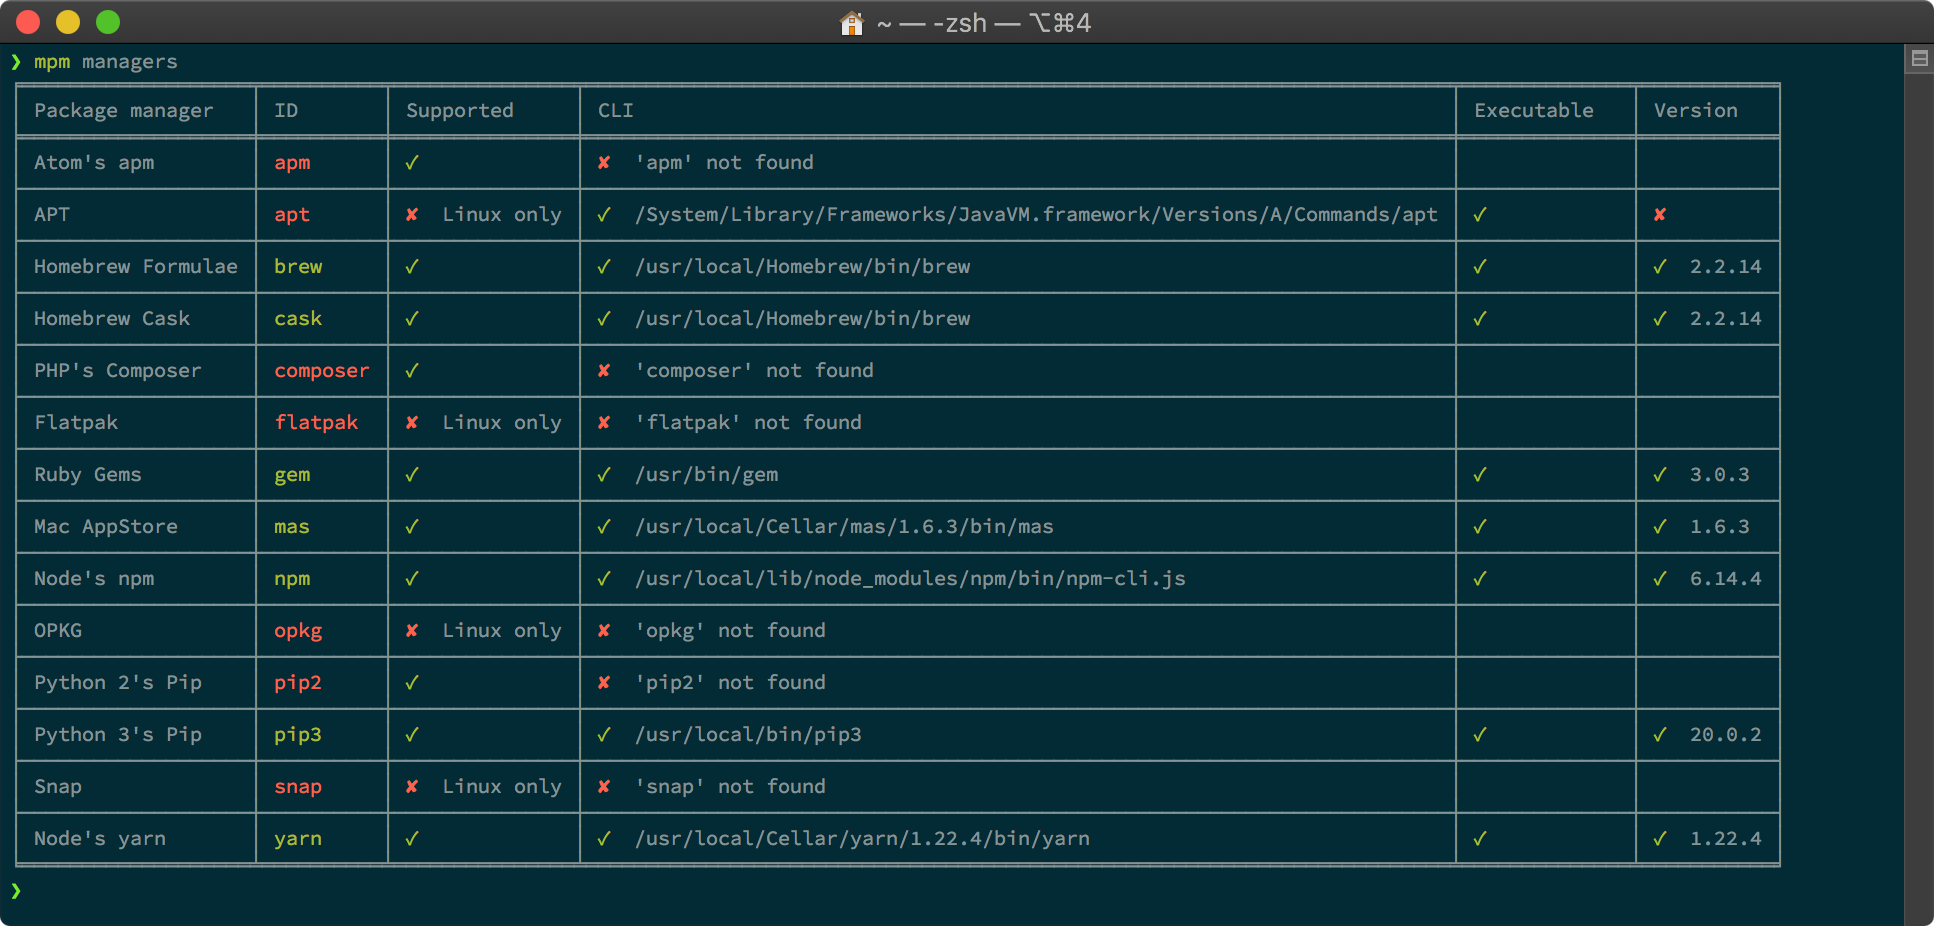
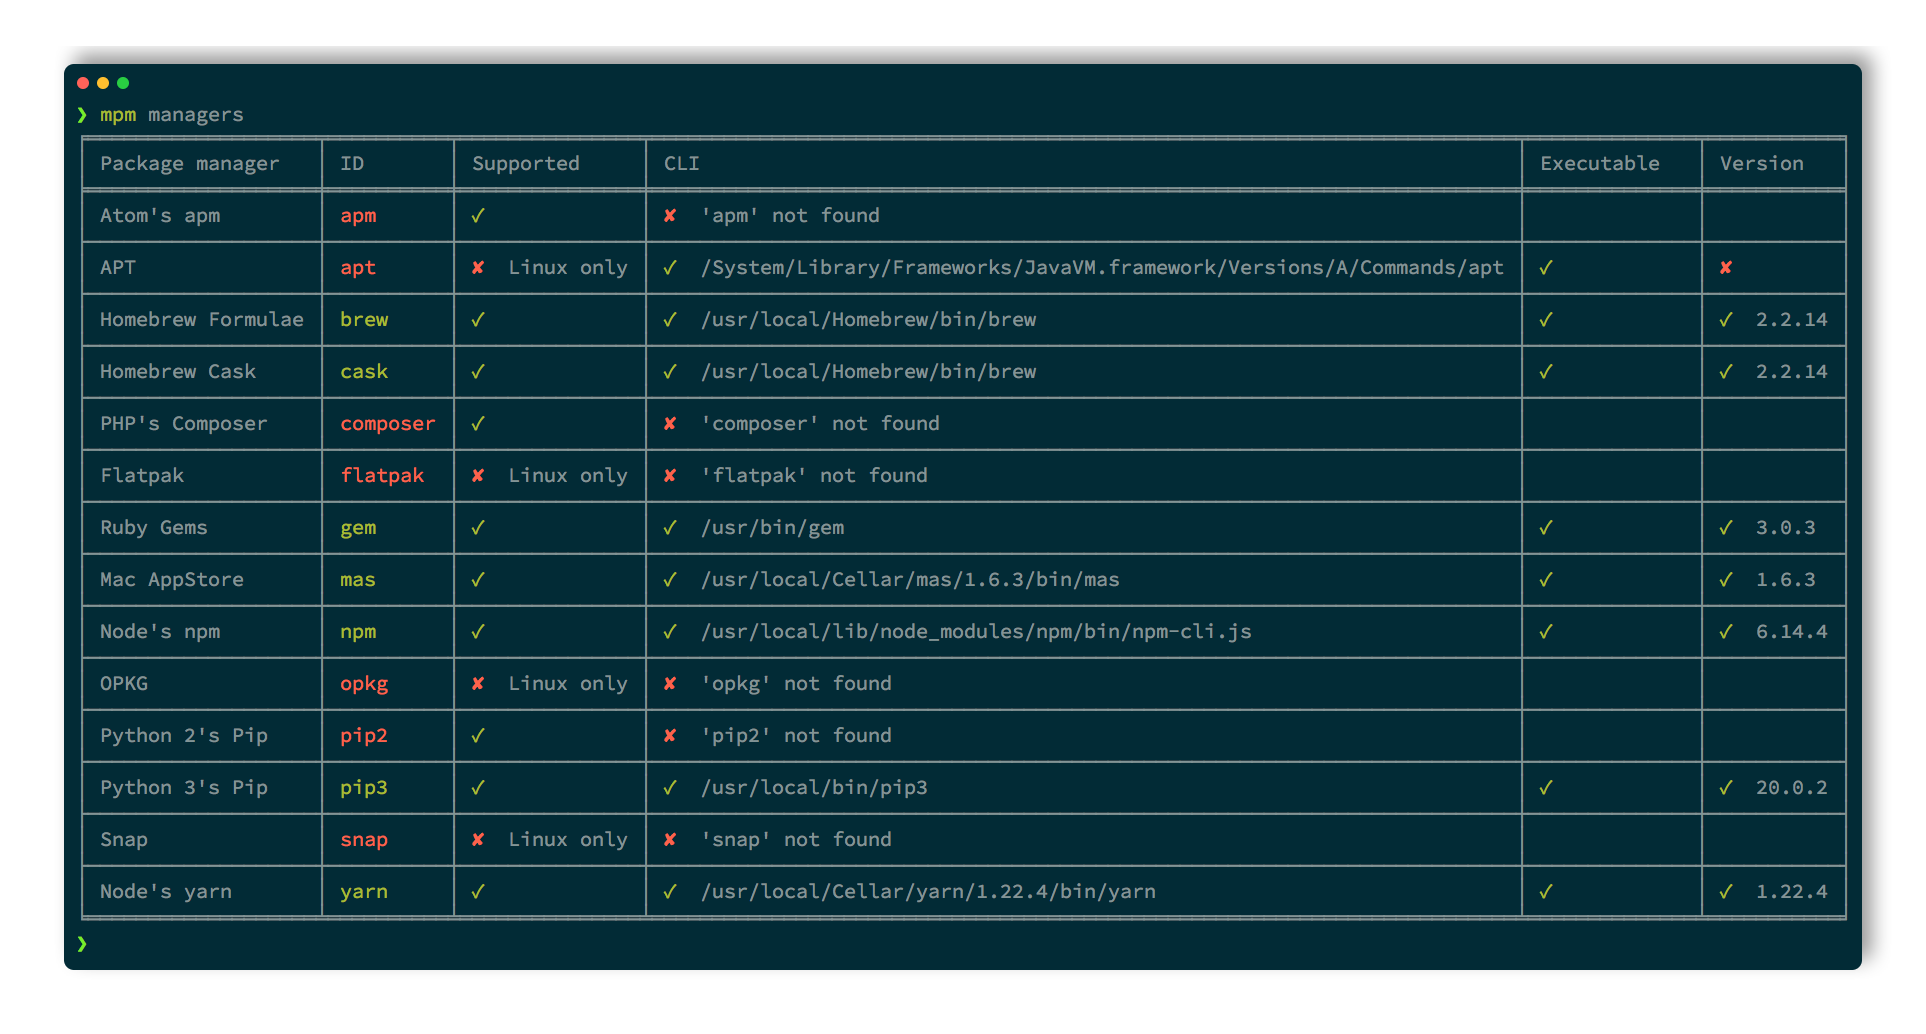
Update terminal screenshots.

diff --git a/docs/development.rst b/docs/development.rst
@@ -159,6 +159,18 @@ And once in a while, it's good to upgrade the `graph of package dependencies
     $ poetry show --all --no-dev --tree
 
 
+Screenshots
+-----------
+
+Once in a while, refresh screenshots found in the docs and the README file at
+the root of project.
+
+To produce clean and fancy terminals screenshots, use either:
+
+* https://graphite-shot.now.sh
+* https://github.com/carbon-app/carbon
+
+
 Release process
 ---------------
 
